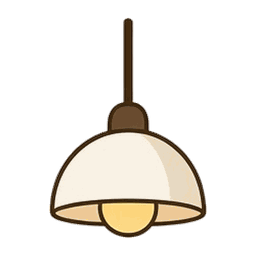
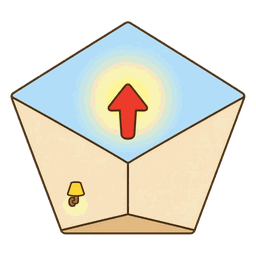
New techo image; content 2026.10.14-5

diff --git a/flutter_bootstrap.js b/flutter_bootstrap.js
@@ -42,6 +42,6 @@ _flutter.buildConfig = {"engineRevision":"deb287481e3ce9468f3434937ced4240a70539
 
 _flutter.loader.load({
   serviceWorkerSettings: {
-    serviceWorkerVersion: "3682984721" /* Flutter's service worker is deprecated and will be removed in a future Flutter release. */
+    serviceWorkerVersion: "711308449" /* Flutter's service worker is deprecated and will be removed in a future Flutter release. */
   }
 });
